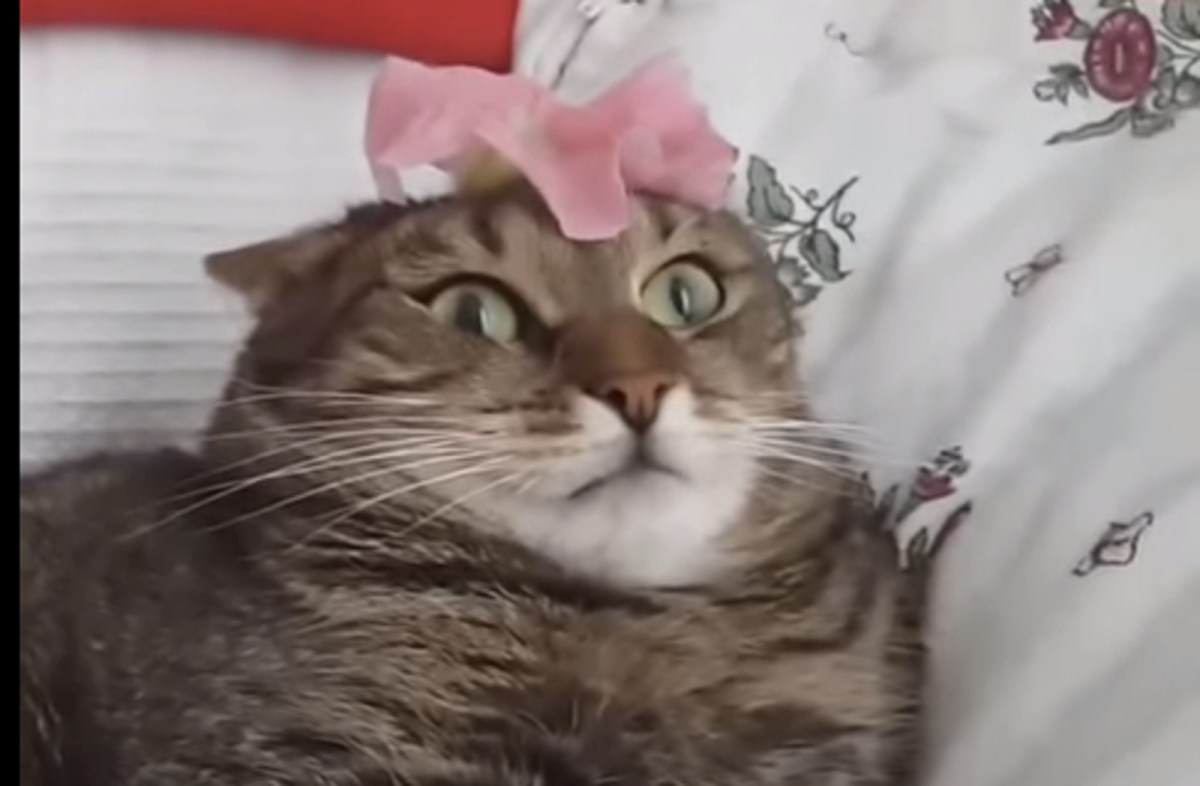
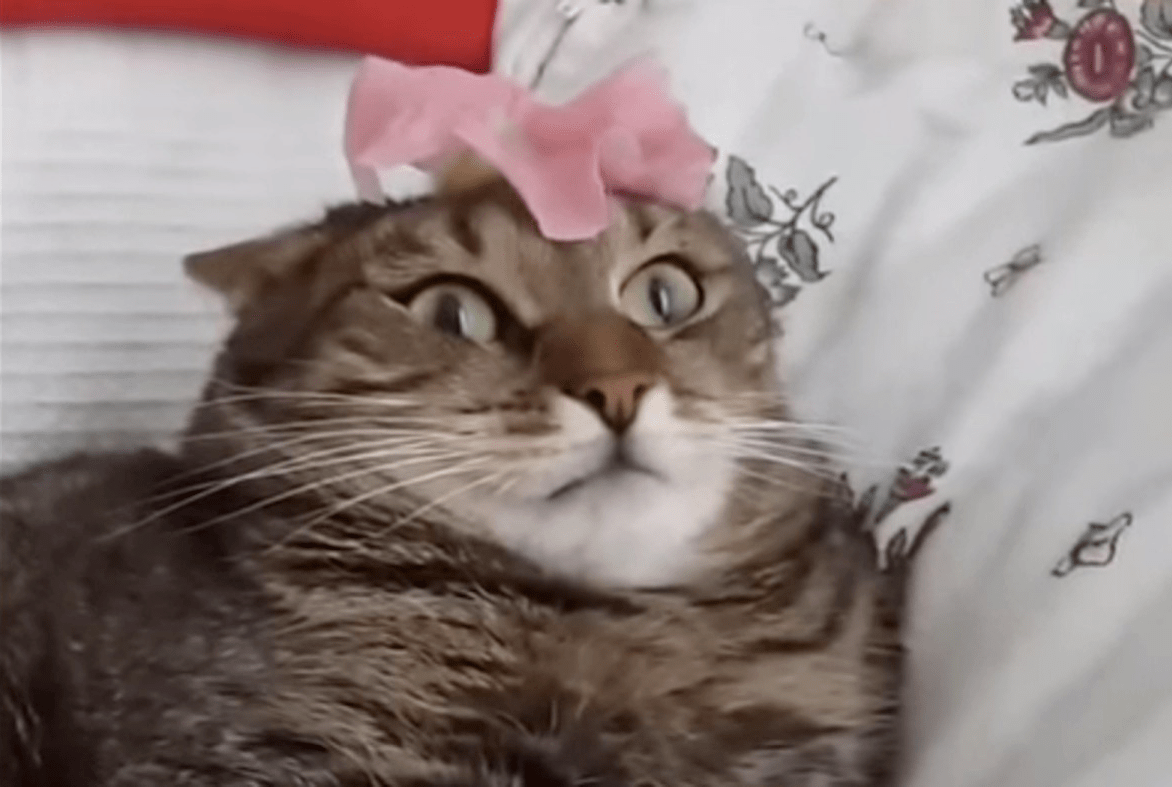
final stylistic changes

diff --git a/ttt/public/style.css b/ttt/public/style.css
@@ -1,9 +1,46 @@
 body {
-    background-color: lightpink
+    background-color: lightpink;
+    text-align: center;
 }
 
 .para{
     color: blue
+}
+
+.board{
+    position: absolute;
+    top: 47%;
+    left: calc(50% - 150px);
+}
+
+.title {
+    font-family: 'Lucida Console';
+    color: rgba(67,45,34,255)
+}
+
+.banner{
+    margin: 0px;
+    padding: 0px;
+    border-radius: 0;
+    border-width: 0;
+
+    height: 10%;
+    width: 100%;
+    left: 0%;
+    position: absolute;
+    top:90%;
+
+    background-color: rgba(67,45,34,255);
+}
+
+.banner-text{
+    position: relative;
+    top: calc(50% - 12px);
+
+
+    color: lightpink;
+    font-family: 'Lucida Console';
+    font-size: 24px;
 }
 
 .play-button{
@@ -18,6 +55,23 @@ body {
     border-color: lightgoldenrodyellow;
     border-width: 0px;
     box-shadow: none;
+}
+
+#main-title{
+    font-size: 40px;
+    position: relative;
+    top: 5%;
+}
+
+#subtitle{
+    font-size: 24px;
+}
+
+#cat-image {
+    position: absolute;
+    left: calc(50% - 200px);
+    width: 400px;
+    height: 262px;
 }
 
 #button-0 {
